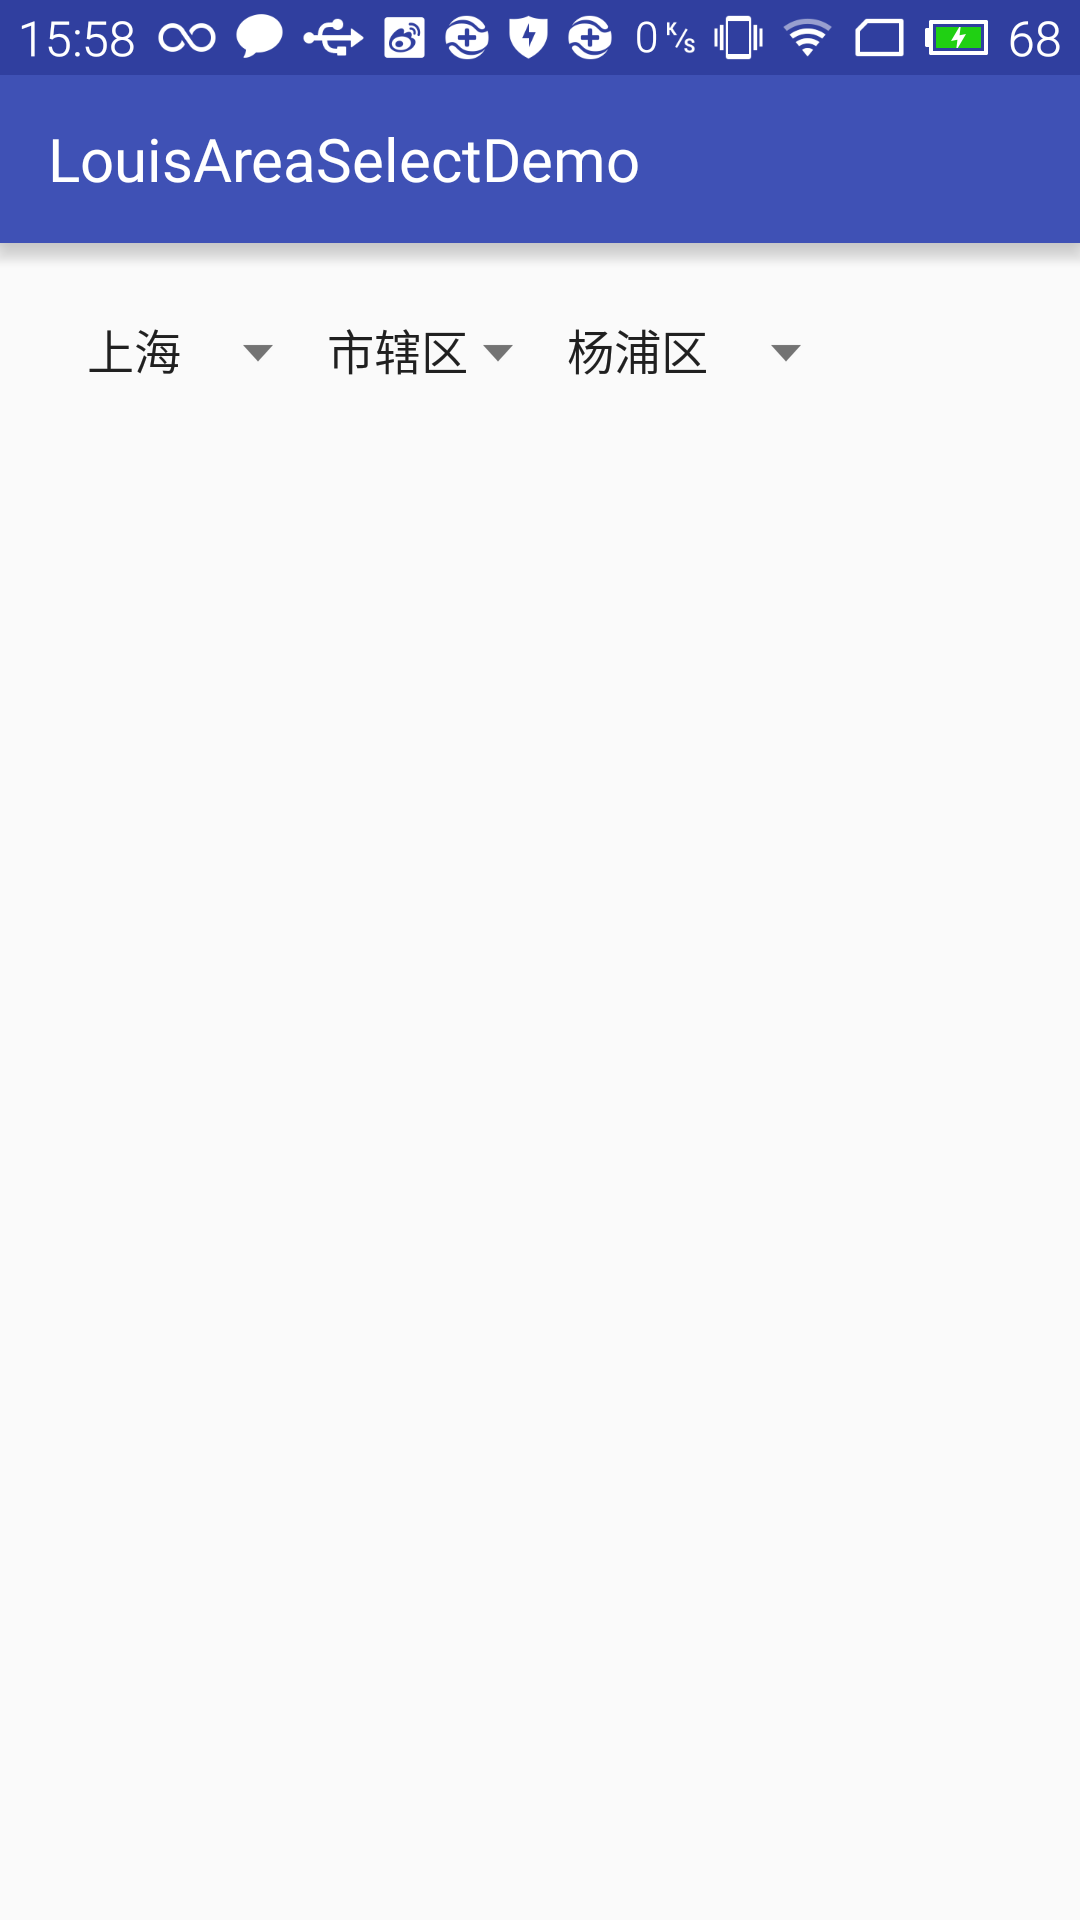
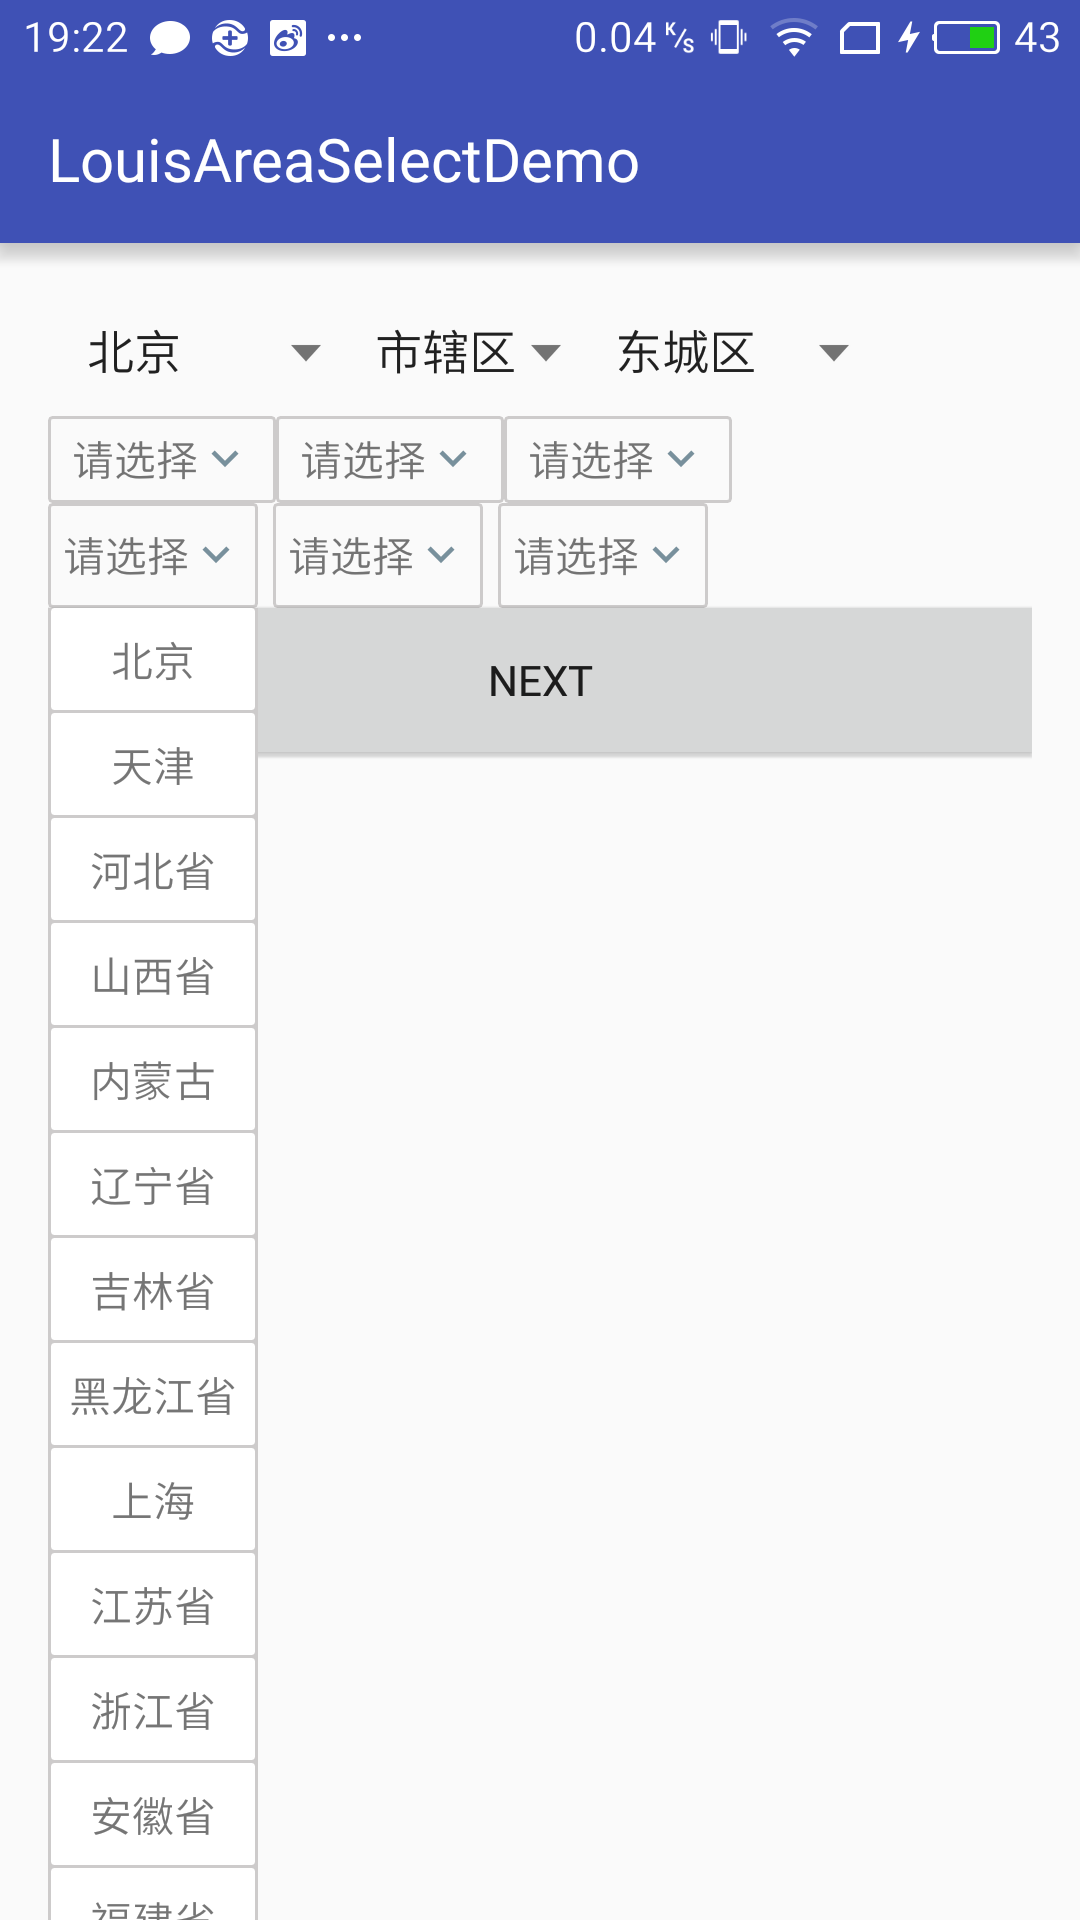
封装省市区

diff --git a/README.md b/README.md
@@ -1,7 +1,13 @@
 # LouisAreaSelectDemo
 省市区选择demo
 
-读json数据  https://raw.githubusercontent.com/louisgeek/LouisAreaSelectDemo/master/app/src/main/res/raw/ssq.json
+读json数据  https://raw.githubusercontent.com/louisgeek/LouisAreaSelectDemo/master/DropDownViewLib/src/main/res/raw/ssq.json
+
+
+备用：https://code.aliyun.com/hi31588535/outside_chain/raw/master/ssq.json
+        https://code.csdn.net/RichieZhu/outside_chain/blob/master/ssq.json
 
 
 ![image](https://raw.githubusercontent.com/louisgeek/LouisAreaSelectDemo/master/screenshots/screenshot.png)
+
+![image](https://raw.githubusercontent.com/louisgeek/LouisAreaSelectDemo/master/screenshots/screenshot2.png)
